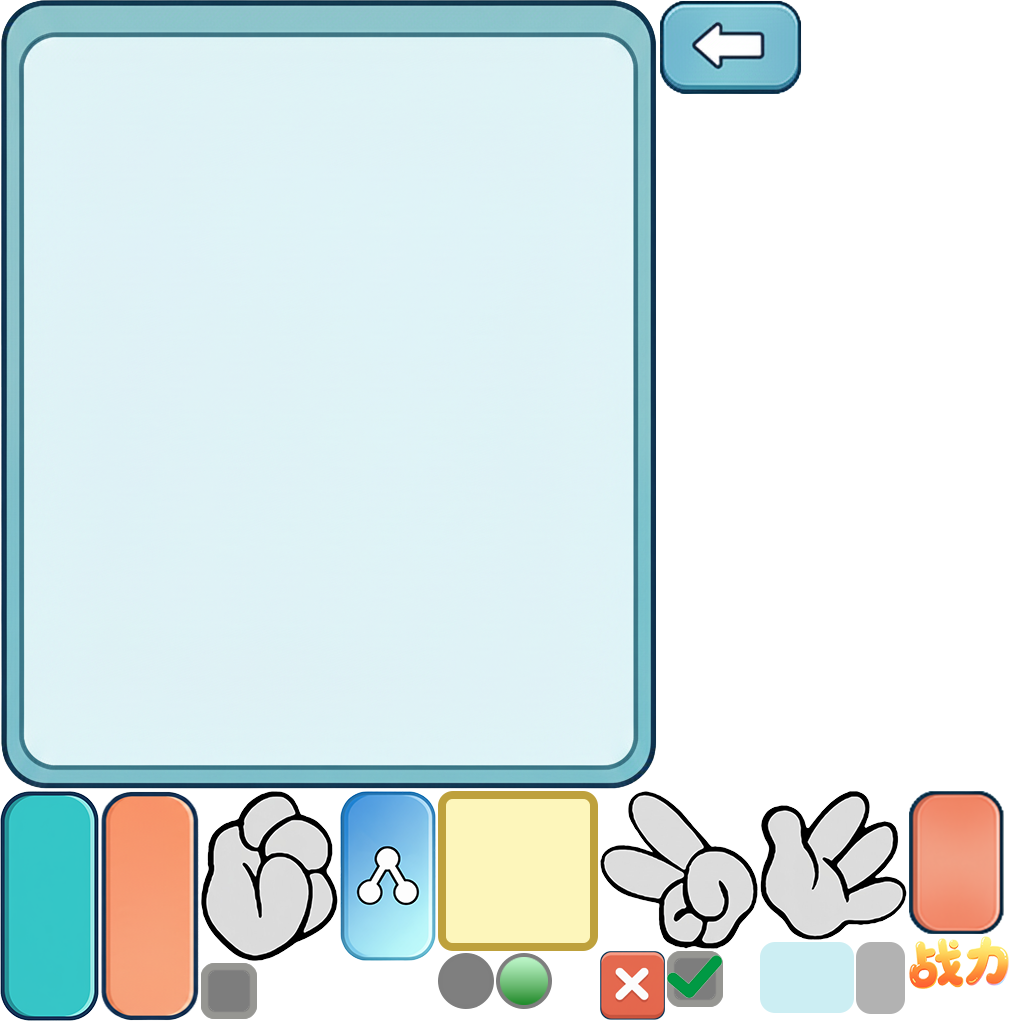
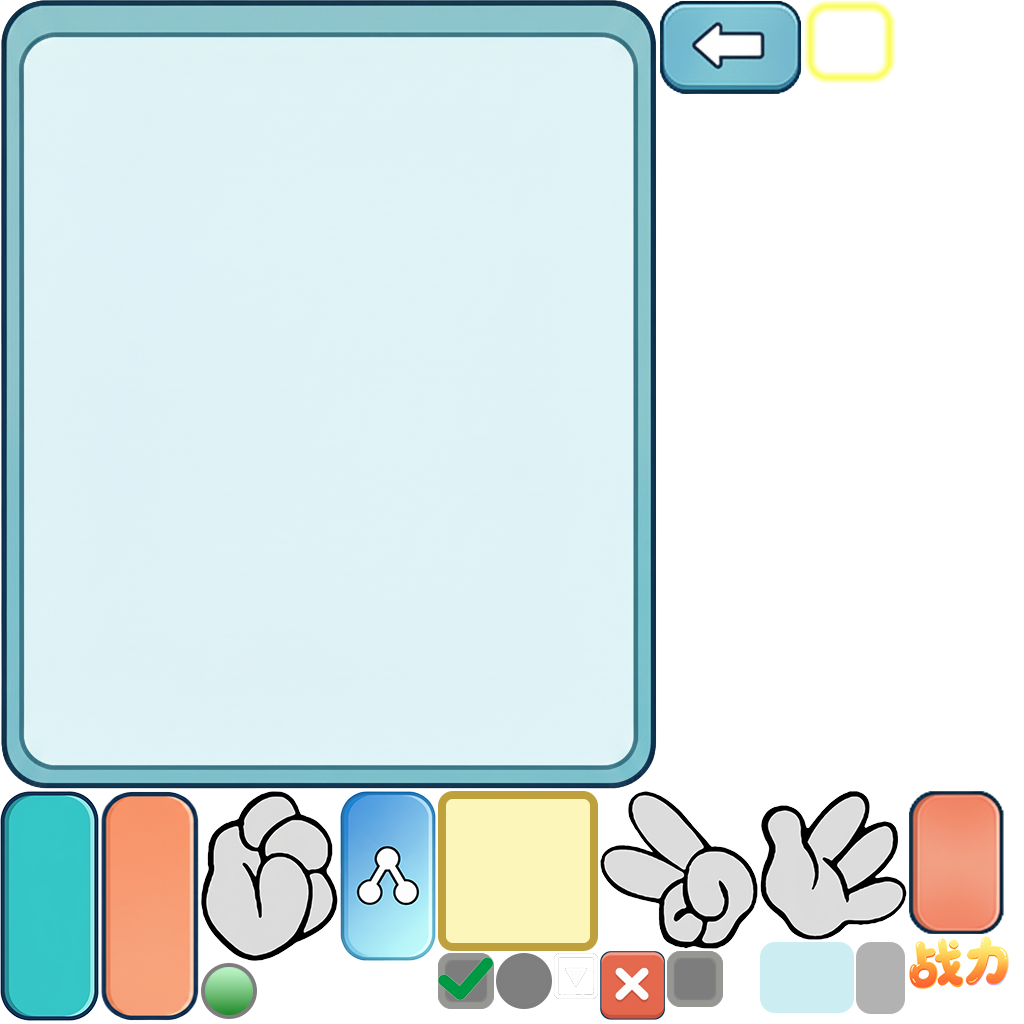
refactor(net): 使用协议对象替换发送服务器指令字符串
- 移除SocketManager和GameSocketManager中旧的callServer和sendServer封装
- 调整sendToServer接口，移除字符串类型标识，统一使用带Name属性的协议对象
- 替换多个模块调用LobbySocketManager.sendToServer时，使用对应Sproto协议对象代替字符串命令
- 修改游戏相关逻辑改用协议对象发送客户端准备、离开房间、游戏准备、出牌等指令
- 更新FairyGUI组件布局，调整签到界面控件位置
- 添加新FairyGUI组件FGUICompBtnAdScale，增强按钮交互功能
- 新增SignIn模块及视图相关文件，实现签到功能入口
- 小幅优化匹配、排行榜、私有房间创建等模块发送服务器请求调用方式

diff --git a/assets/scripts/games/game10001/view/game/GameView.ts b/assets/scripts/games/game10001/view/game/GameView.ts
@@ -22,7 +22,7 @@ import { MiniGameUtils } from 'db://assets/scripts/frameworks/utils/sdk/MiniGame
 import { CompPlayerHead } from './comp/CompPlayerHead';
 import { SoundManager } from 'db://assets/scripts/frameworks/SoundManager';
 import { SprotoForwardMessage, SprotoGameClock, SprotoGameEnd, SprotoGameRecord, SprotoGameStart, SprotoOutHandInfo, SprotoPlayerAtt, SprotoPlayerEnter, SprotoPlayerInfos, SprotoPlayerLeave, SprotoPlayerStatusUpdate, SprotoPrivateInfo, SprotoRoomEnd, SprotoRoomInfo, SprotoRoundResult, SprotoStepId, SprotoTalk, SprotoTotalResult } from 'db://assets/types/protocol/game10001/s2c';
-import { SprotoClientReady } from 'db://assets/types/protocol/game10001/c2s';
+import { SprotoClientReady, SprotoGameReady, SprotoLeaveRoom, SprotoOutHand, SprotoVoteDisbandRoom } from 'db://assets/types/protocol/game10001/c2s';
 import { SprotoGameRoomReady } from 'db://assets/types/protocol/lobby/s2c';
 import { TALK_LIST } from '../talk/TalkConfig';
 import { TalkView } from '../talk/TalkView';
@@ -387,7 +387,7 @@ export class GameView extends FGUIGameView {
                 //this.changeToGameScene()
                 this.clear()
                 this.init()
-                GameSocketManager.instance.sendToServer("clientReady",{})
+                GameSocketManager.instance.sendToServer(SprotoClientReady,{})
             }
         }
         AuthGame.instance.req(addr,gameid, roomid, callBack);
@@ -654,7 +654,7 @@ export class GameView extends FGUIGameView {
                 if (GameData.instance.gameStart) {
                     console.log('游戏中无法退出');
                 }else{
-                    GameSocketManager.instance.sendToServer("leaveRoom", {flag:1});
+                    GameSocketManager.instance.sendToServer(SprotoLeaveRoom, {flag:1});
                 }
             }
         }
@@ -677,12 +677,12 @@ export class GameView extends FGUIGameView {
                 this.ctrl_btn.selectedIndex = CTRL_BTN_INDEX.NONE;
             }
         }
-        GameSocketManager.instance.sendToServer('gameReady',{ready:1}, func)
+        GameSocketManager.instance.sendToServer(SprotoGameReady,{ready:1}, func)
         this.clear()
     }
 
     onBtnChange():void{
-        GameSocketManager.instance.sendToServer('outHand', { gameid: DataCenter.instance.gameid, roomid: DataCenter.instance.roomid, flag:HAND_INDEX[this.ctrl_select.selectedIndex] })
+        GameSocketManager.instance.sendToServer(SprotoOutHand, { gameid: DataCenter.instance.gameid, roomid: DataCenter.instance.roomid, flag:HAND_INDEX[this.ctrl_select.selectedIndex] })
     }
 
     onBtnScissors(): void {
@@ -702,7 +702,7 @@ export class GameView extends FGUIGameView {
             reason: "玩家发起解散" // 解散原因（可选）
         };
 
-        GameSocketManager.instance.sendToServer('voteDisbandRoom', data, (response: any) => {
+        GameSocketManager.instance.sendToServer(SprotoVoteDisbandRoom, data, (response: any) => {
             if (response && response.code === 1) {
                 console.log('发起解散投票成功');
             } else {
@@ -743,7 +743,7 @@ export class GameView extends FGUIGameView {
     }
 
     onBtnSure(): void {
-        GameSocketManager.instance.sendToServer('outHand', { gameid: DataCenter.instance.gameid, roomid: DataCenter.instance.roomid, flag:HAND_INDEX[this.ctrl_select.selectedIndex] })
+        GameSocketManager.instance.sendToServer(SprotoOutHand, { gameid: DataCenter.instance.gameid, roomid: DataCenter.instance.roomid, flag:HAND_INDEX[this.ctrl_select.selectedIndex] })
     }
 
     showInviteBtn(bshow:boolean):void{ 

diff --git a/assets/scripts/fgui/common/FGUICompBtnAdScale.ts b/assets/scripts/fgui/common/FGUICompBtnAdScale.ts
@@ -1,0 +1,60 @@
+/** This is an automatically generated class by FairyGUI. Please do not modify it. **/
+
+import { assetManager, AssetManager } from "cc";
+import * as fgui from "fairygui-cc";
+
+import { PackageManager } from "../../frameworks/PackageManager";
+
+export default class FGUICompBtnAdScale extends fgui.GButton {
+
+	public ctrl_color:fgui.Controller;
+	public UI_ICOM:fgui.GLoader;
+	public static URL:string = "ui://gj0r6g5ipz9v1d";
+
+	public static packageName:string = "common";
+
+	public static instance:any | null = null;
+
+	public static showView(params?:any, callBack?:(b:boolean)=>void):void {
+		if(FGUICompBtnAdScale.instance) {
+			console.log("allready show");
+			callBack&&callBack(false);
+			return;
+		}
+		PackageManager.instance.loadPackage("fgui", this.packageName).then(()=> {
+
+			const view = fgui.UIPackage.createObject("common", "CompBtnAdScale") as FGUICompBtnAdScale;
+
+			view.makeFullScreen();
+			FGUICompBtnAdScale.instance = view;
+			fgui.GRoot.inst.addChild(view);
+			view.show && view.show(params);
+			callBack&&callBack(true);
+		}
+		).catch(error=>{console.log("showView error", error);callBack&&callBack(false);return;});
+	}
+
+	protected onDestroy():void {
+		super.onDestroy();
+		FGUICompBtnAdScale.instance = null;
+	}
+	public static hideView():void {
+		FGUICompBtnAdScale.instance && FGUICompBtnAdScale.instance.dispose();
+	}
+
+	show(data?:any):void{};
+
+	public static createInstance():FGUICompBtnAdScale {
+		return <FGUICompBtnAdScale>(fgui.UIPackage.createObject("common", "CompBtnAdScale"));
+	}
+
+	protected onConstruct():void {
+		this.ctrl_color = this.getControllerAt(0);
+		this.UI_ICOM = <fgui.GLoader>(this.getChildAt(0));
+	}
+	scheduleOnce(callback: () => void, delay: number):void{};
+	unscheduleAllCallbacks():void{};
+	unschedule(callback: () => void):void{};
+	schedule(callback: () => void, interval: number):void{};
+}
+fgui.UIObjectFactory.setExtension(FGUICompBtnAdScale.URL, FGUICompBtnAdScale);

diff --git a/assets/scripts/frameworks/SocketManager.ts b/assets/scripts/frameworks/SocketManager.ts
@@ -168,13 +168,10 @@ export class SocketManager implements handleSocketMessage {
 
     isOpen(){
         return this._isopen;
-
     }
 
     sendHeartBeat() {
-        this.callServer('agent','', 'heartbeat', { timestamp: Date.now() / 1000 }, (data: any) => {
-            //log("心跳 ", data.timestamp)
-        });
+        
     }
 
     startHeartBeat() {
@@ -187,30 +184,8 @@ export class SocketManager implements handleSocketMessage {
         }, 10000);
     }
 
-    callServer(serverName: string, moduleName: string, funcName: string, args:any, callBack?: (data: any) => void){
-        const strArgs = JSON.stringify(args)
-        const data = {
-            serverName: serverName,
-            moduleName: moduleName,
-            funcName:funcName,
-            args: strArgs
-        }
-        this.sendToServer('call', data, callBack)
-    }
-
-    sendServer(serverName: string, moduleName: string, funcName: string, args:any){
-        const strArgs = JSON.stringify(args)
-        const data = {
-            serverName: serverName,
-            moduleName: moduleName,
-            funcName:funcName,
-            args: strArgs
-        }
-        this.sendToServer('send', data)
-    }
-
-    sendToServer(xy: string | {Name:string}, data: any, callBack?: (data: any) => void) {
-        const xyname = typeof xy === 'string' ? xy : xy.Name;
+    sendToServer(xy: {Name:string}, data: any, callBack?: (data: any) => void) {
+        const xyname = xy.Name;
         this._session++;
         if (callBack) {
             this._callBacks[this._session] = callBack;

diff --git a/assets/scripts/view/lobby/LobbyView.ts b/assets/scripts/view/lobby/LobbyView.ts
@@ -21,6 +21,7 @@ import { UserCenterView } from '../userCenter/UserCenterView';
 import { MiniGameUtils } from '../../frameworks/utils/sdk/MiniGameUtils';
 import { ConnectGameSvr } from '../../modules/ConnectGameSvr';
 import { SprotoGameRoomReady } from 'db://assets/types/protocol/lobby/s2c';
+import { SignInView } from '../signIn/SignInView';
 @PackageLoad(['common','props'])
 @ViewClass()
 export class LobbyView extends FGUILobbyView {
@@ -205,17 +206,19 @@ export class LobbyView extends FGUILobbyView {
     }
 
     onBtnRank(): void {
-        const func = (b:boolean, data:any) => { 
-            LoadingView.hideView();
-            if (b) {
-                RankView.showView(data)
-            }else{
-                TipsView.showView({content:`拉取排行榜数据失败`})
-            }
-        }
-        const rank = new Rank()
-        rank.req(func)
-        LoadingView.showView({content:"拉取数据中...", time:12});
+        // const func = (b:boolean, data:any) => { 
+        //     LoadingView.hideView();
+        //     if (b) {
+        //         RankView.showView(data)
+        //     }else{
+        //         TipsView.showView({content:`拉取排行榜数据失败`})
+        //     }
+        // }
+        // const rank = new Rank()
+        // rank.req(func)
+        // LoadingView.showView({content:"拉取数据中...", time:12});
+
+        SignInView.showView()
     }
 
     changeToGameScene():void{

diff --git a/assets/scripts/modules/UserData.ts b/assets/scripts/modules/UserData.ts
@@ -1,7 +1,7 @@
 import { DataCenter } from '../datacenter/Datacenter';
 import { LobbySocketManager } from '../frameworks/LobbySocketManager';
 import { DispatchEvent } from '../frameworks/Framework';
-import { SprotoUserData } from '../../types/protocol/lobby/c2s';
+import { SprotoUpdateUserNameAndHeadurl, SprotoUserData } from '../../types/protocol/lobby/c2s';
 
 /**
  * @class UserData
@@ -14,7 +14,7 @@ export class UserData {
      * @description 请求用户数据，向服务器发送用户数据请求
      */
     req() {
-        LobbySocketManager.instance.sendToServer(SprotoUserData.Name, { userid: DataCenter.instance.userid }, this.resp.bind(this))
+        LobbySocketManager.instance.sendToServer(SprotoUserData, { userid: DataCenter.instance.userid }, this.resp.bind(this))
     }
 
     /**
@@ -28,6 +28,6 @@ export class UserData {
     }
 
     updateUserNameAndHeadurl(nickname:string, headurl:string){
-        LobbySocketManager.instance.sendToServer('updateUserNameAndHeadurl', { nickname: nickname, headurl: headurl })
+        LobbySocketManager.instance.sendToServer(SprotoUpdateUserNameAndHeadurl, { nickname: nickname, headurl: headurl })
     }
 }

diff --git a/assets/scripts/modules/RevokeAccount.ts b/assets/scripts/modules/RevokeAccount.ts
@@ -20,7 +20,7 @@ export class RevokeAccount {
             this._callback = callback
         }
         const loginInfo = DataCenter.instance.getLoginInfo();
-        LobbySocketManager.instance.sendToServer(SprotoRevokeAcc.Name, { loginType: loginInfo?.loginType }, this.respRevoke.bind(this))
+        LobbySocketManager.instance.sendToServer(SprotoRevokeAcc, { loginType: loginInfo?.loginType }, this.respRevoke.bind(this))
     }
 
     reqCancelRevokeAccount(callback?: (data:any)=>void) {
@@ -28,7 +28,7 @@ export class RevokeAccount {
             this._callback = callback
         }
         const loginInfo = DataCenter.instance.getLoginInfo();
-        LobbySocketManager.instance.sendToServer(SprotoCancelRevokeAcc.Name, { userid: loginInfo?.loginType }, this.respCancelRevoke.bind(this))
+        LobbySocketManager.instance.sendToServer(SprotoCancelRevokeAcc, { userid: loginInfo?.loginType }, this.respCancelRevoke.bind(this))
     }
 
     /**

diff --git a/assets/scripts/games/game10001/view/game/comp/CompDisband.ts b/assets/scripts/games/game10001/view/game/comp/CompDisband.ts
@@ -10,6 +10,7 @@ import { ENUM_POP_MESSAGE_TYPE } from "../../../../../datacenter/InterfaceConfig
 import { Color } from "cc";
 import { SprotoVoteDisbandResult, SprotoVoteDisbandStart, SprotoVoteDisbandUpdate } from "../../../../../../types/protocol/game10001/s2c";
 import { ViewClass } from "db://assets/scripts/frameworks/Framework";
+import { SprotoVoteDisbandResponse } from "db://assets/types/protocol/game10001/c2s";
 
 @ViewClass()
 export class CompDisband extends FGUICompDisband { 
@@ -164,7 +165,7 @@ export class CompDisband extends FGUICompDisband {
             agree: vote
         };
 
-        GameSocketManager.instance.sendToServer('voteDisbandResponse', data, (response: any) => {
+        GameSocketManager.instance.sendToServer(SprotoVoteDisbandResponse, data, (response: any) => {
             if (response && response.code === 1) {
                 console.log('投票发送成功');
             } else {

diff --git a/assets/scripts/view/privateRoom/comp/CompPrivateCreate.ts b/assets/scripts/view/privateRoom/comp/CompPrivateCreate.ts
@@ -7,6 +7,7 @@ import { TipsView } from "../../common/TipsView";
 import { sys } from "cc";
 import { ConnectGameSvr } from "../../../modules/ConnectGameSvr";
 import { ViewClass } from "../../../frameworks/Framework";
+import { SprotoCreatePrivateRoom } from "db://assets/types/protocol/lobby/c2s";
 
 @ViewClass()
 export class CompPrivateCreate extends FGUICompPrivateCreate { 
@@ -61,7 +62,7 @@ export class CompPrivateCreate extends FGUICompPrivateCreate {
         const strRule = JSON.stringify(gameRule)
         sys.localStorage.setItem(LOCAL_KEY.PRIVATE_RULE, strRule)
         const reqData = {gameid:10001, rule:strRule}
-        LobbySocketManager.instance.sendToServer('createPrivateRoom',reqData, func)
+        LobbySocketManager.instance.sendToServer(SprotoCreatePrivateRoom,reqData, func)
     }
 }
 fgui.UIObjectFactory.setExtension(CompPrivateCreate.URL, CompPrivateCreate);

diff --git a/assets/scripts/frameworks/GameSocketManager.ts b/assets/scripts/frameworks/GameSocketManager.ts
@@ -16,26 +16,6 @@ export class GameSocketManager extends SocketManager {
         super();
     }
 
-    callServer(moduleName: string, funcName: string, args:any, callBack?: (data: any) => void){
-        const strArgs = JSON.stringify(args)
-        const data = {
-            moduleName: moduleName,
-            funcName:funcName,
-            args: strArgs
-        }
-        this.sendToServer('call', data, callBack)
-    }
-
-    sendServer(moduleName: string, funcName: string, args:any){
-        const strArgs = JSON.stringify(args)
-        const data = {
-            moduleName: moduleName,
-            funcName:funcName,
-            args: strArgs
-        }
-        this.sendToServer('send', data)
-    }
-
     onOpen(event: any): void {
         super.onOpen(event);
         // 游戏区链接没有agent，所以打开socket后，直接通过成功

diff --git a/assets/scripts/modules/Match.ts b/assets/scripts/modules/Match.ts
@@ -41,7 +41,7 @@ export class Match {
         if (callBack) {
             this._callBack = callBack
         }
-        LobbySocketManager.instance.sendToServer(SprotoMatchJoin.Name,{ gameid: 10001, queueid: 1 }, this.resp.bind(this))
+        LobbySocketManager.instance.sendToServer(SprotoMatchJoin,{ gameid: 10001, queueid: 1 }, this.resp.bind(this))
     }
 
     /**
@@ -65,7 +65,7 @@ export class Match {
         if (callBack) {
             this._callBack = callBack
         }
-        LobbySocketManager.instance.sendToServer(SprotoMatchLeave.Name,{ gameid: 10001, queueid: 1 }, this.respLeave.bind(this))
+        LobbySocketManager.instance.sendToServer(SprotoMatchLeave,{ gameid: 10001, queueid: 1 }, this.respLeave.bind(this))
     }
 
     respLeave(result:SprotoMatchLeave.Response): void { 

diff --git a/assets/scripts/modules/AwardNotices.ts b/assets/scripts/modules/AwardNotices.ts
@@ -3,7 +3,7 @@ import { LobbySocketManager } from '../frameworks/LobbySocketManager';
 import { SprotoGetAwardNotice,SprotoSetAwardNoticeRead } from '../../types/protocol/lobby/c2s';
 export class AwardNotices {
     req() {
-        LobbySocketManager.instance.sendToServer(SprotoGetAwardNotice.Name, { userid:DataCenter.instance.userid}, this.resp.bind(this))
+        LobbySocketManager.instance.sendToServer(SprotoGetAwardNotice, { userid:DataCenter.instance.userid}, this.resp.bind(this))
 
     }
 
@@ -13,7 +13,7 @@ export class AwardNotices {
     }
 
     reqRead(id:number){
-        LobbySocketManager.instance.sendToServer(SprotoSetAwardNoticeRead.Name, { id:id})
+        LobbySocketManager.instance.sendToServer(SprotoSetAwardNoticeRead, { id:id})
     }
 
 }

diff --git a/assets/scripts/view/match/MatchView.ts b/assets/scripts/view/match/MatchView.ts
@@ -44,7 +44,7 @@ export class MatchView extends FGUIMatchView {
                     MatchView.hideView()
                 }
             }
-            LobbySocketManager.instance.sendToServer('matchOnSure', {
+            LobbySocketManager.instance.sendToServer(SprotoMatchOnSure, {
                 id: this._checkID,
                 sure: false
             },callBack)
@@ -130,7 +130,7 @@ export class MatchView extends FGUIMatchView {
                 this.ctrl_enter.selectedIndex = 1;
             }
         }
-        LobbySocketManager.instance.sendToServer('matchOnSure', {
+        LobbySocketManager.instance.sendToServer(SprotoMatchOnSure, {
             id: this._checkID,
             sure: true
         },callBack)
